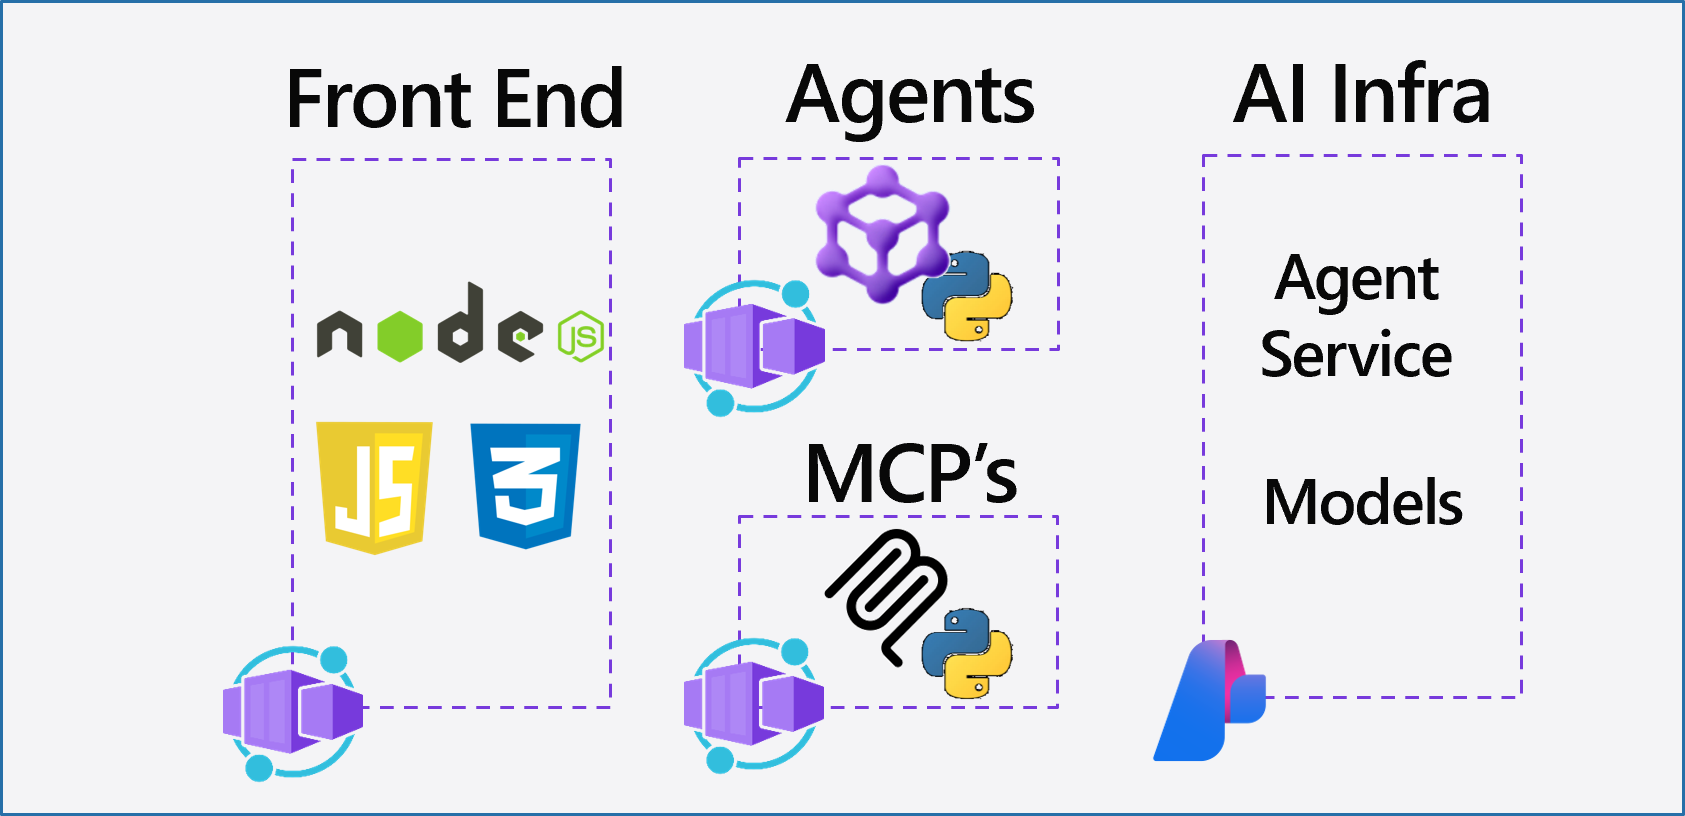
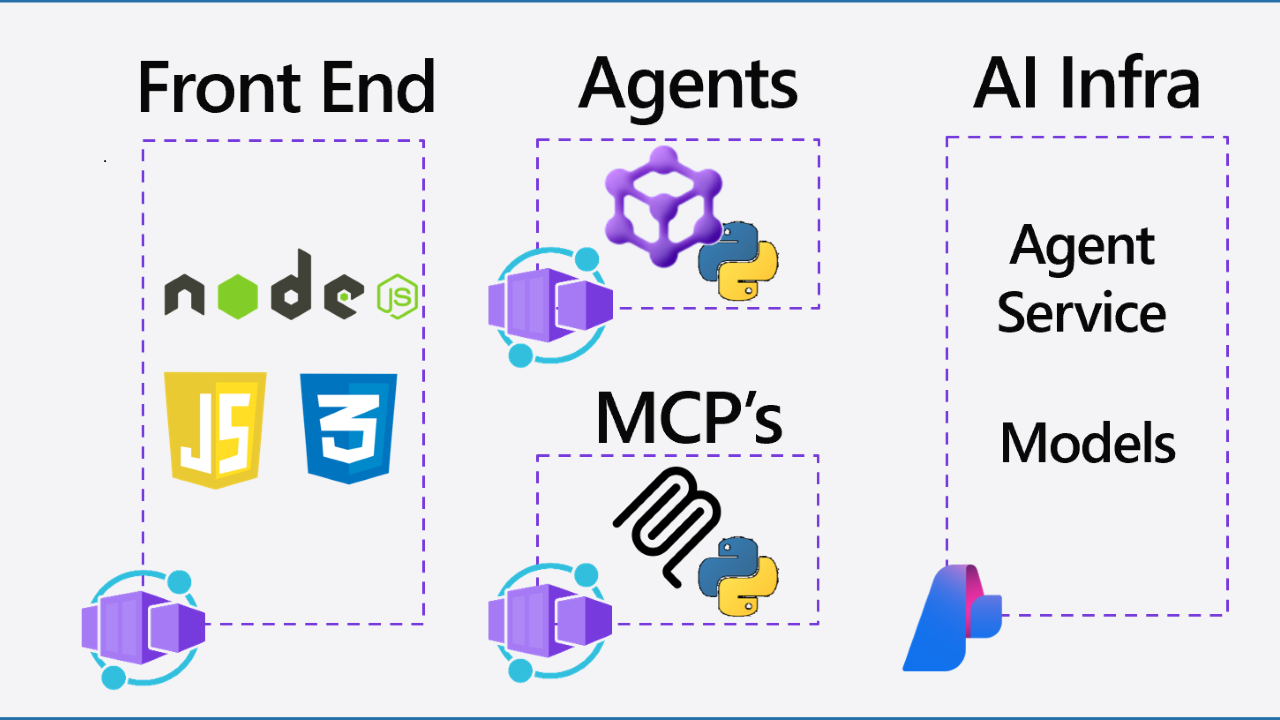
updated the images

diff --git a/templates/banking-assistant/README.MD b/templates/banking-assistant/README.MD
@@ -5,8 +5,8 @@ category: AI Apps & Agents # AI Apps & Agents | App Modernization | Data Centric
 industry: Finantial Services # Finantial Services | Healthcare & Life Sciences | Manufacturing | Retail & Consumer Goods | Government & Public Sector | Education | Energy & Resources | Telco & Media | Mobility & Automotive
 languages: [.NET/C#, Python, TypeScript] # .NET/C# | Python | Java | Go | TypeSscript | JavaScript
 services: [Azure AI Foundry, Azure Container Apps] # Full list here: https://azure.microsoft.com/en-us/products/
-
-thumbnail: thumbnail.png
+thumbnail: thumbnail.png # 16:9 aspect ratio: 1280 × 720 (HD), 1920 × 1080 (Full HD), 2560 × 1440 (QHD)
+video: 
 version: 1.0
 ---
 
